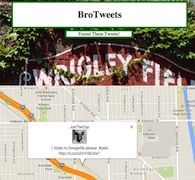
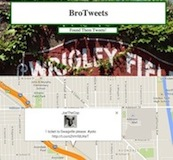
evening out examples

diff --git a/index.html b/index.html
@@ -21,18 +21,52 @@ layout: default
   <header><h5>Selected Projects</h5></header>
   <div class="examples">  
     <div class = "flik blurb">
-      <img src ='./img/flik-bites.jpeg'>
+      <div class="app_title">
+        <a href="http://flikbites.herokuapp.com/">FlikBites</a>
+      </div>
+        <div class="app_img">
+          <img src ='./img/flik-bites.jpeg'>
+        </div>
+        <div class="app_title">
+          <a href="https://github.com/leeacto/flik_bites">Repo</a>
+        </div>
       <div class="description">
         FlikBites is a crowd-sourced visual menu of Chicago's restaurants. Restaurants and dishes are displayed as cards with pictures on the front and descriptions on the back.
       </div>
     </div>
     
     <div class = "cheetah blurb">
-      <img src ='./img/cheetah.jpeg'>
+      <div>
+        <div class="app_title">
+          <a href="http://cheetah-gym-crossfit.herokuapp.com/">Cheetah Crossfit</a>
+        </div>
+        <div class="app_img">
+          <img src ='./img/cheetah.jpeg'>
+        </div>
+        <div class="app_title">
+          <a href="https://github.com/leeacto/cheetah_gym_app">Repo</a>
+        </div>
+      </div>
+      <div class="description">
+        Cheetah Crossfit is an app I am making to allow athletes and coaches to track their performance over time. Results are aggregated to help coaches schedule future workouts.
+      </div>
     </div>
     
     <div class = "bro blurb">
-      <img src ='./img/bro-tweets.jpeg'>
+      <div>
+        <div class="app_title">
+          <a href="http://bro-tweets.herokuapp.com/">BroTweets</a>
+        </div>
+        <div class="app_img">
+          <img src ='./img/bro-tweets.jpeg'>
+        </div>
+        <div class="app_title">
+          <a href="https://github.com/leeacto/bro_tweets_sinatra">Repo</a>
+        </div>
+      </div>
+      <div class="description">
+        BroTweets scrapes Twitter for recent tweets containing user-defined keywords and displays them on Google Maps. Want to know who says YOLO all the time? Use BroTweets.
+      </div>
     </div>
   </div>
 </div>

diff --git a/css/main.css b/css/main.css
@@ -52,7 +52,7 @@ header h5 {
 
 nav {
   position: absolute;
-  bottom: 0;
+  top: 0;
 }
 
 nav ul, ul.entries {
@@ -102,14 +102,34 @@ footer {
   margin-bottom: 0;
 }
 
-.projects.examples {
+.projects .examples {
   margin: auto;
+  border: 1px solid black;
 }
 .blurb {
-  width: 30%;
+  height: 33%;
+  width: 32%;
   display: inline-block;
+  border: 1px solid black;
 }
 
 .blurb img {
   margin: auto;
+}
+
+.app_title {
+  width: 100%;
+  text-align: center;
+  padding-bottom: 2px;
+}
+
+.app_img {
+  text-align: center;
+  height: 164px;
+  padding: auto;
+}
+
+.description {
+  font-size: 9pt;
+  padding: 3px;
 }
